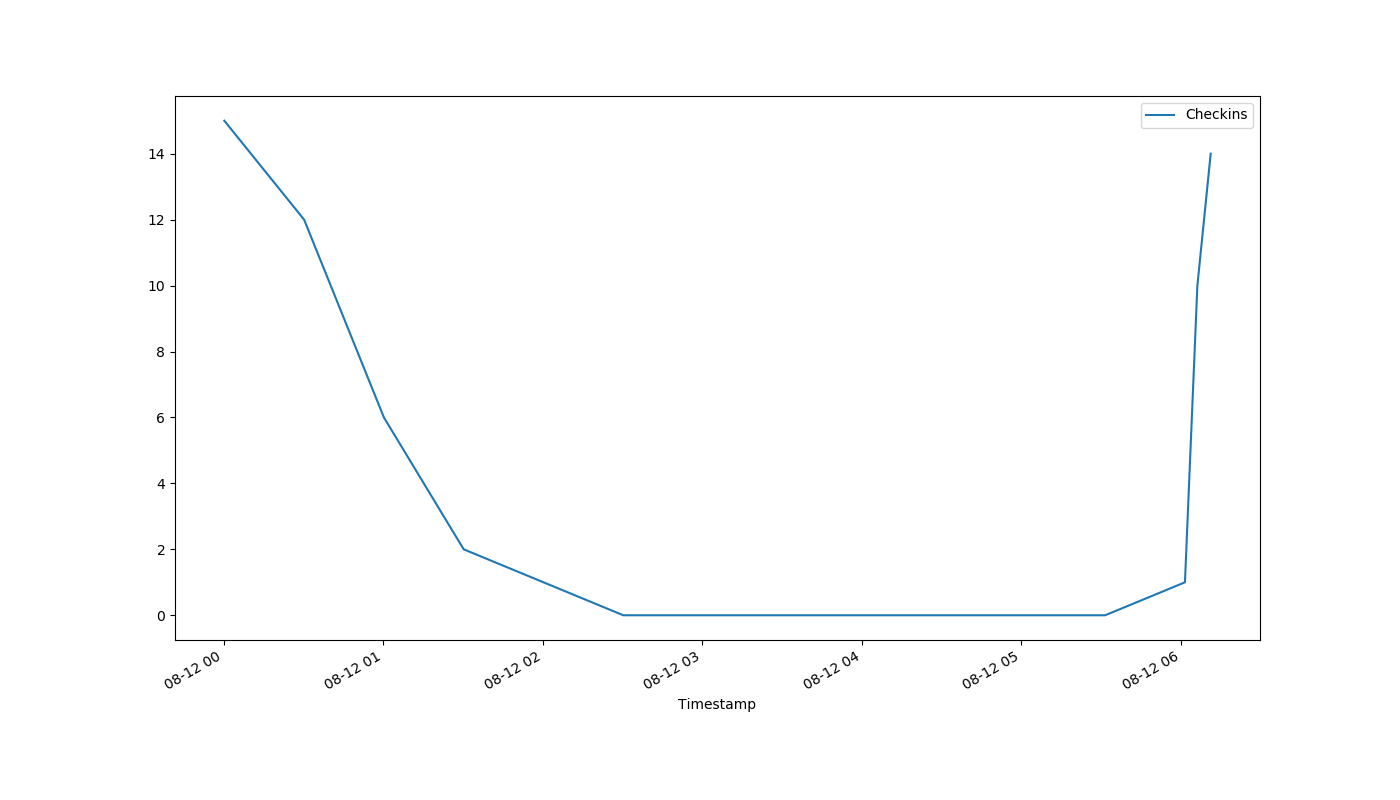
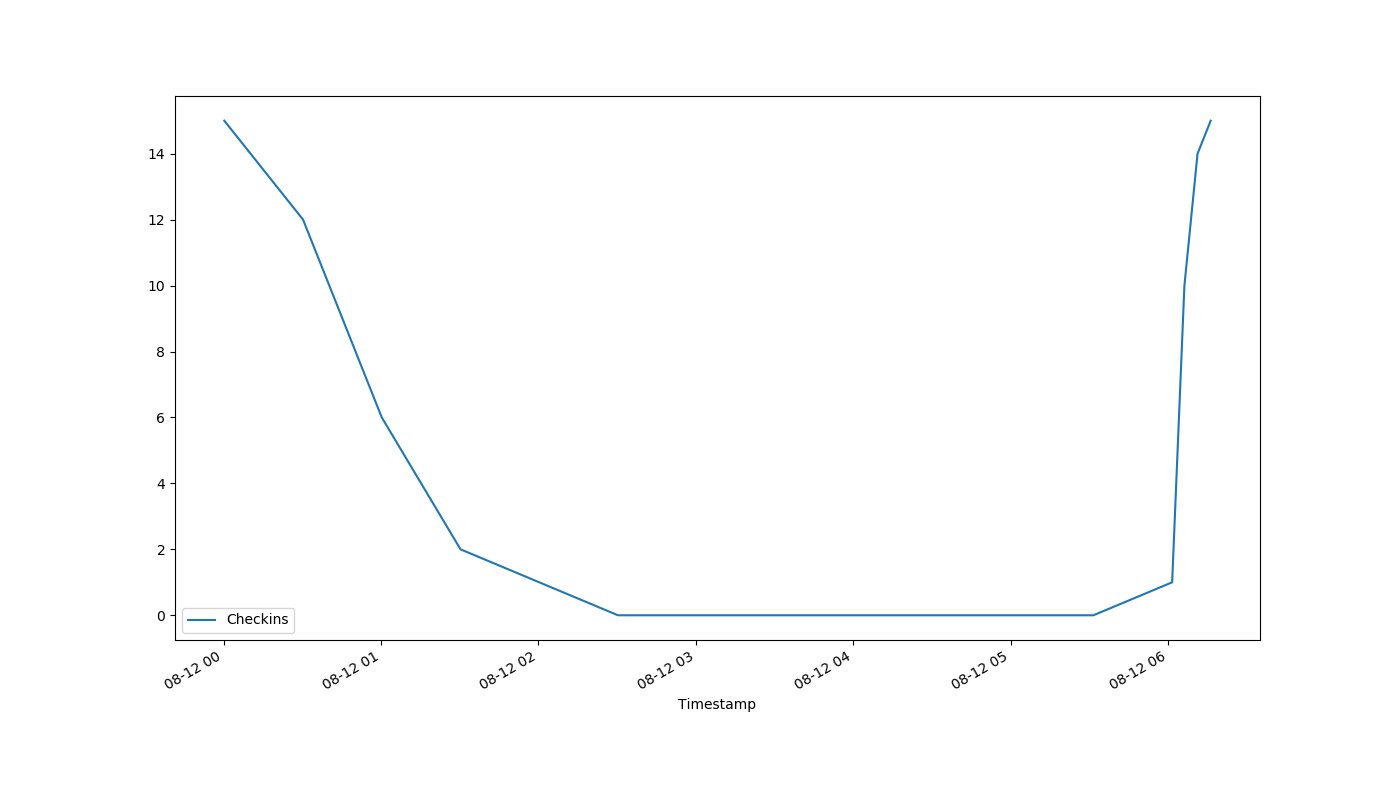
auto-Aug-12-06:18:54

diff --git a/index.html b/index.html
@@ -1,1 +1,1 @@
-<!DOCTYPE html><html><head><meta http-equiv="refresh" content="30"><link rel='stylesheet' href='holmcurrent.css'></head><body><p id='count'>14</p><div id='graph-wrap'><img id='graph' src='holmgraph-Aug-12.png'></div><p id='updated'>Last updated 06:12:11 / 06:11:10</p></body></html>
+<!DOCTYPE html><html><head><meta http-equiv="refresh" content="30"><link rel='stylesheet' href='holmcurrent.css'></head><body><p id='count'>15</p><div id='graph-wrap'><img id='graph' src='holmgraph-Aug-12.png'></div><p id='updated'>Last updated 06:17:11 / 06:16:11</p></body></html>
